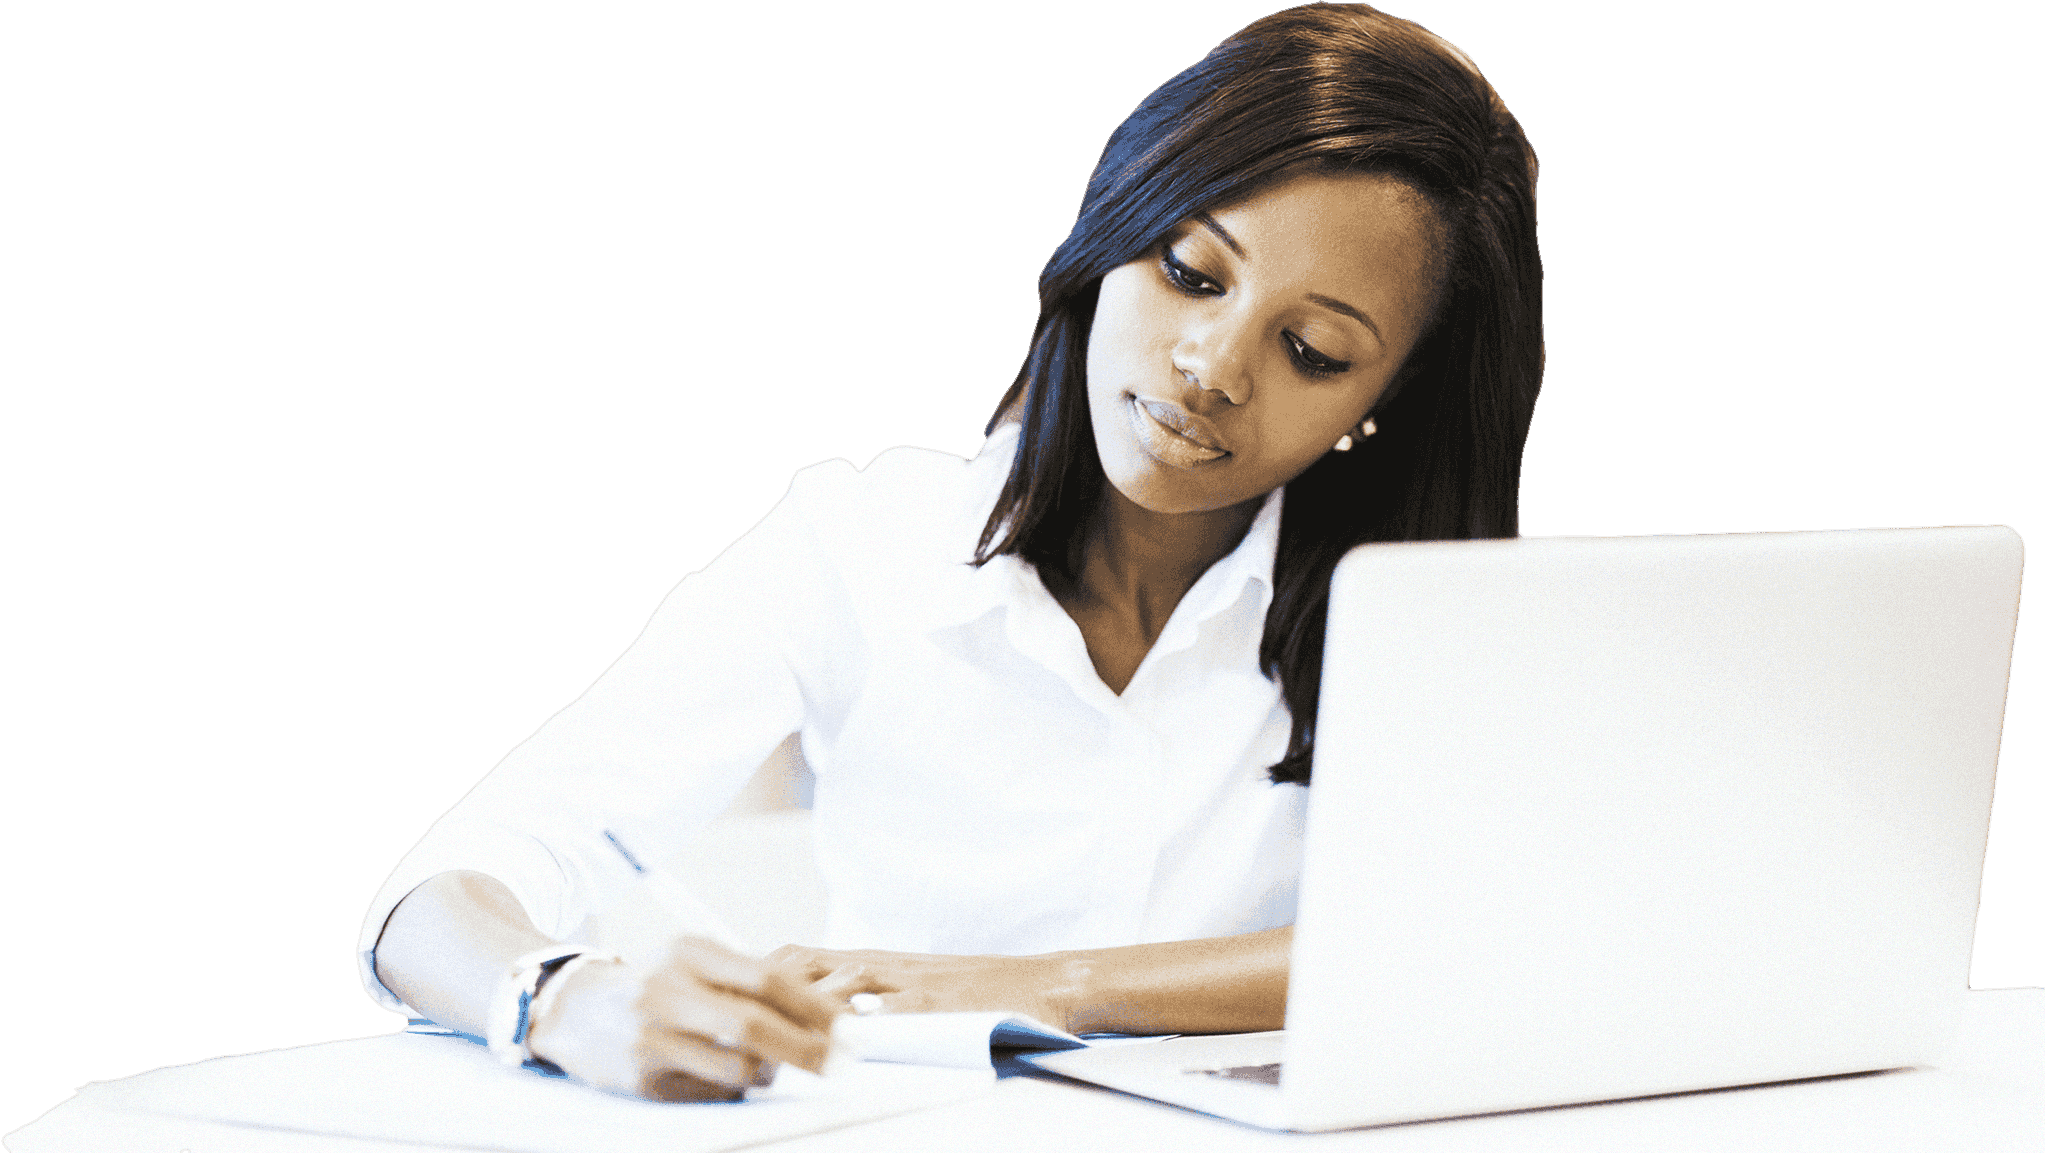
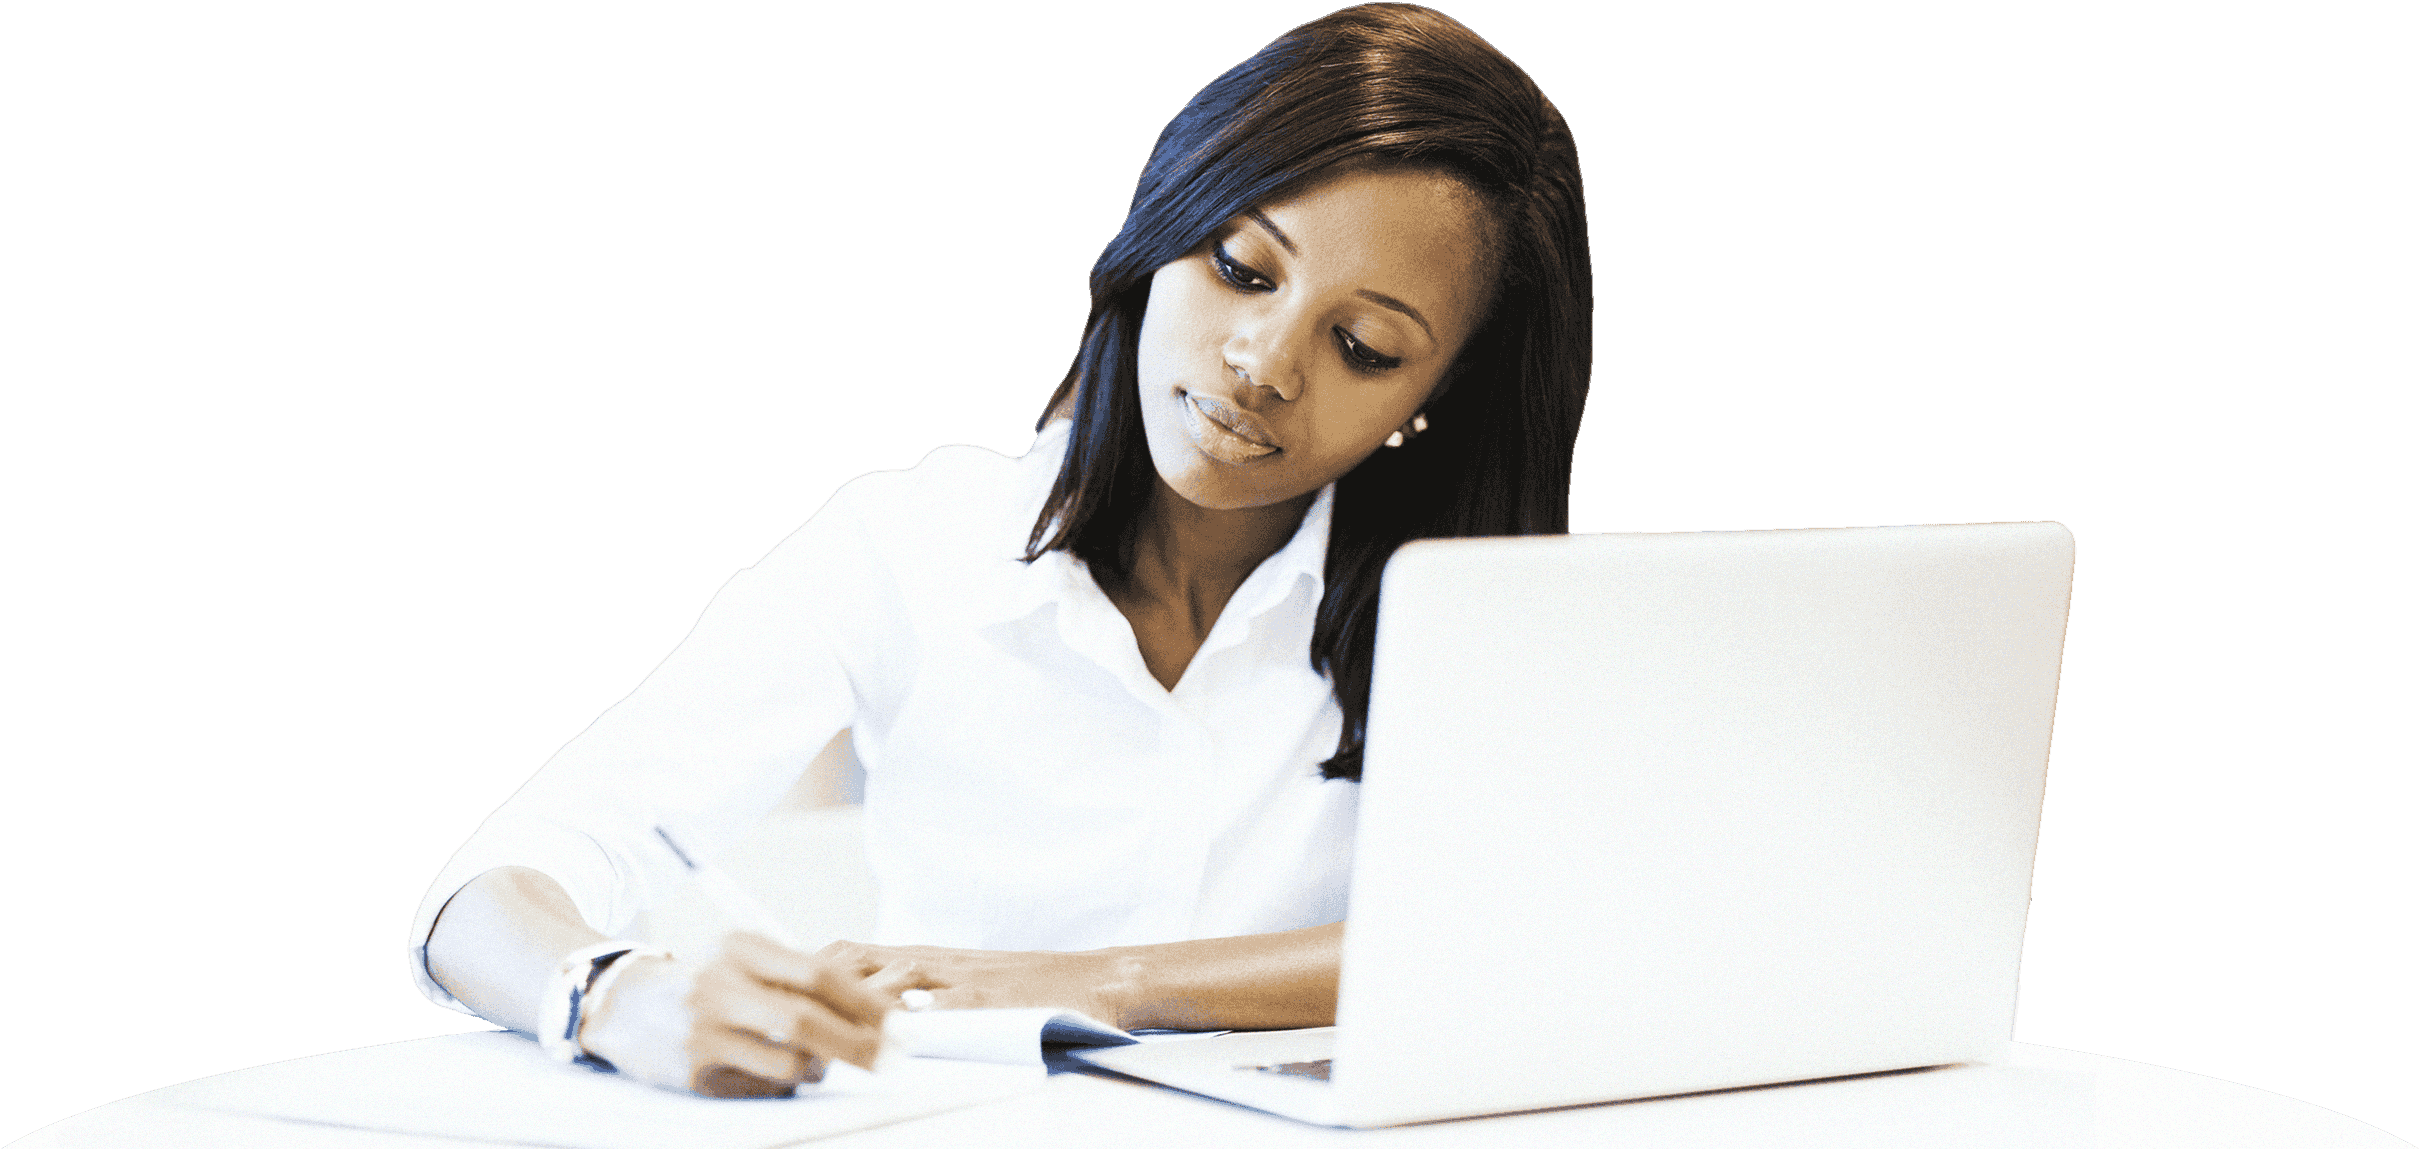
Replaced student image

diff --git a/src/app/pages/technology/technology.scss b/src/app/pages/technology/technology.scss
@@ -46,6 +46,10 @@
 
         h1 {
             font-size: 6rem;
+
+            @include phone {
+                font-size: 4.8rem;
+            }
         }
 
         .boxed {
@@ -55,6 +59,7 @@
             position: relative;
 
             @include phone {
+                height: 100%;
                 padding: 0;
             }
 
@@ -74,6 +79,10 @@
                 height: 100%;
                 position: static;
                 width: 100%;
+            }
+
+            @media (min-width: 1400px) {
+                top: 7rem;
             }
 
             .orange-part {
@@ -108,7 +117,11 @@
                     width: 40%;
                 }
 
-                @media (max-width: 500px) {
+                @include tablet {
+                    width: calc(5rem + 60%);
+                }
+
+                @include phone {
                     width: 100%;
                 }
             }
@@ -145,19 +158,23 @@
             background-size: contain;
             bottom: 0;
             height: 95%;
+            left: 20%;
             pointer-events: none;
             position: absolute;
-            right: 0;
             width: calc(80% + 15rem);
             z-index: 2;
 
-            @media (max-width: 1200px) {
-                height: calc(45% + 25vw);
-                right: calc(15% - 18rem);
+            @include phone {
+                background-position: 35% bottom;
+                background-size: calc(60vw + 45rem) auto;
+                left: 0;
+                width: 100%;
             }
 
-            @include phone {
-                width: calc(25rem + 85%);
+            @media (min-width: 1400px) {
+                left: auto;
+                right: calc(50% - 85rem);
+                width: 143rem;
             }
         }
     }
